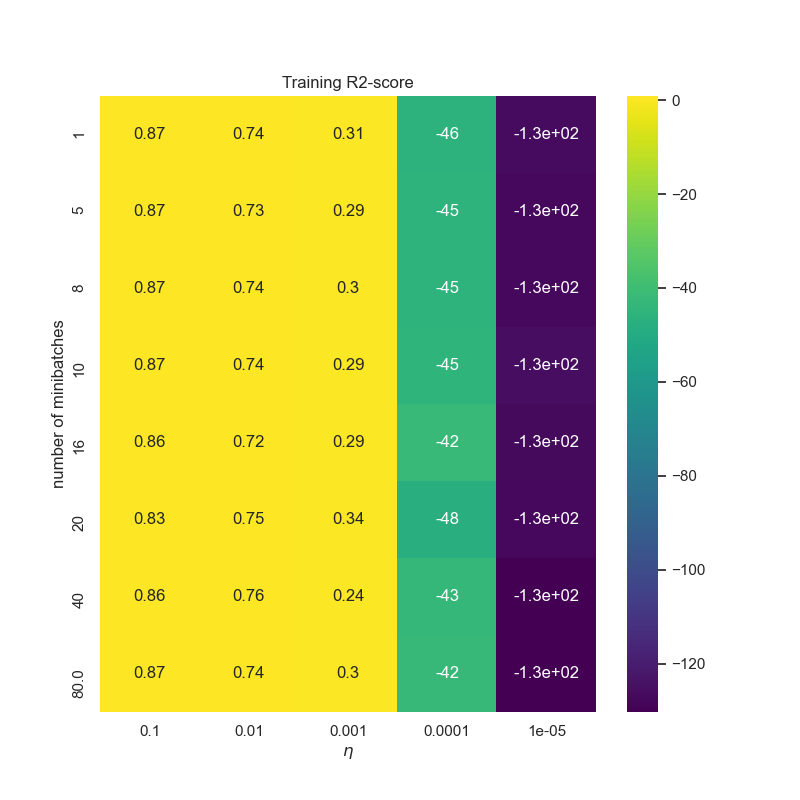
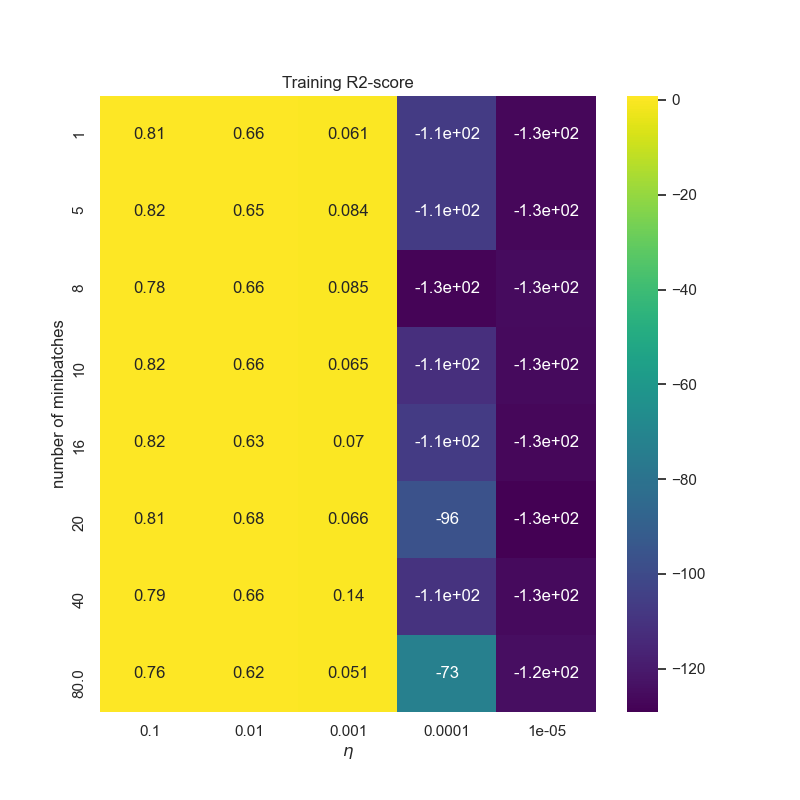
test activ func

diff --git a/project2/code/test_project_2.py b/project2/code/test_project_2.py
@@ -17,7 +17,7 @@ then this file will be very easy to read/ use
 
 from FF_Neural_Network_new import Neural_Network
 from gradient_descent import SGD
-from cost_functions import logistic_cost_NN, cost_logistic_regression, prob
+from cost_functions import MSE, logistic_cost_NN, cost_logistic_regression, prob
 import time
 import numpy as np
 import gradient_descent
@@ -31,7 +31,7 @@ against the results of project 1. For the Ridge case, it will provide
 a seaborn visualization with hyperparameter lambda and the learning rate
 """
 
-test1 = True
+test1 = False
 if test1:
     print('>> RUNNING TEST 1:')
     # Generating some data (Franke Function)
@@ -358,15 +358,15 @@ if test5:
 
     # Setting the preffered Stochastic Gradient Descent parameters
     FFNN.set_SGD_values(
-        n_epochs=20,
+        n_epochs=60,
         batch_size=14,
-        gamma=0.8,
-        eta=0.001,
+        gamma=0.5,
+        eta=8e-4,
         lmbda=1e-5)
 
     # Setting the preffered cost- and activation functions
     FFNN.set_cost_function(logistic_cost_NN)
-    # FFNN.set_activation_function_hidden_layers('sigmoid')
+    FFNN.set_activation_function_hidden_layers('Leaky_RELU')
     FFNN.set_activation_function_output_layer('sigmoid')
 
     # Set keep_accuracy to True, if you wanna see accuracy vs. time (in the training)
